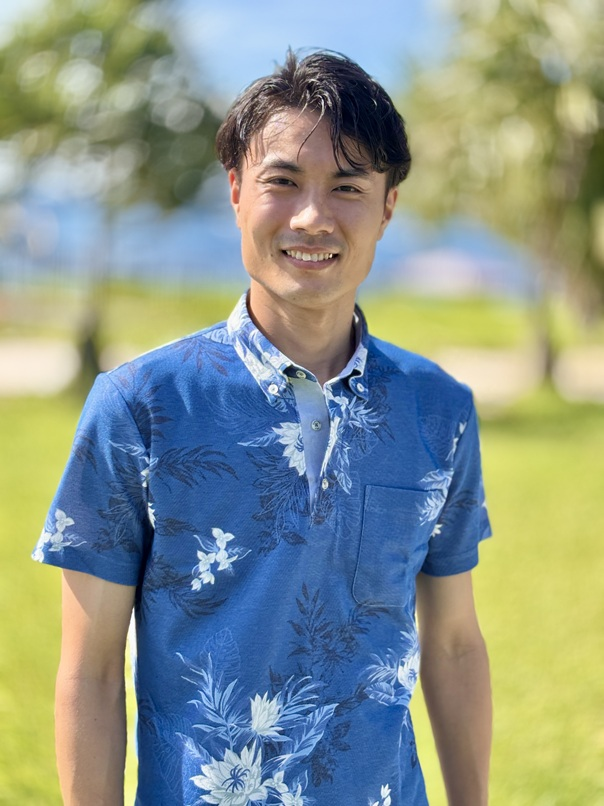
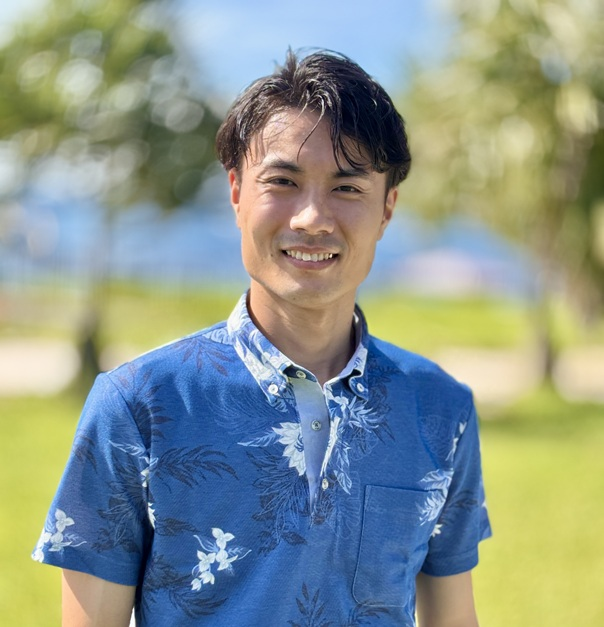
代表写真調整

diff --git a/public/css/about.css b/public/css/about.css
@@ -95,7 +95,7 @@
 .about-story__media img {
   width: 100%;
   height: auto;
-  aspect-ratio: 3 / 4;
+  max-height:500px;
   object-fit: cover;
   border-radius: 12px;
   display: block;